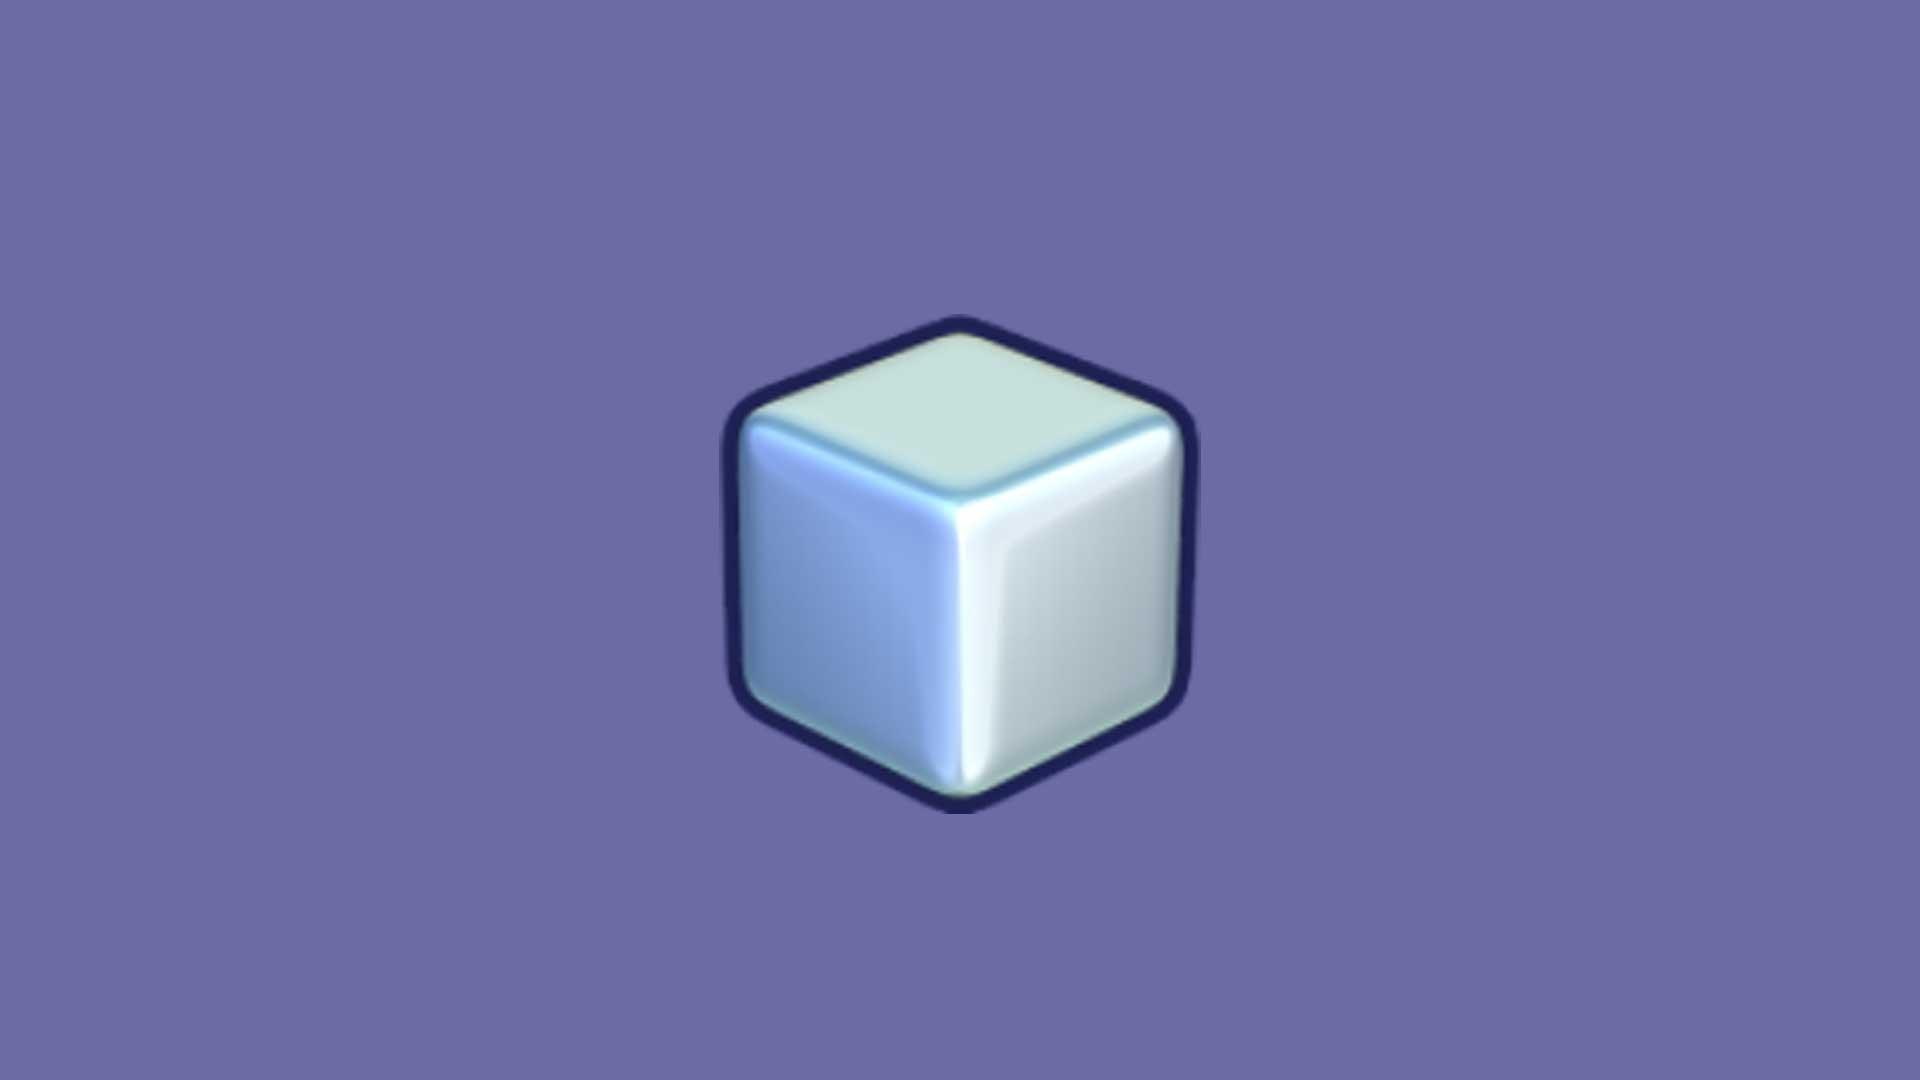
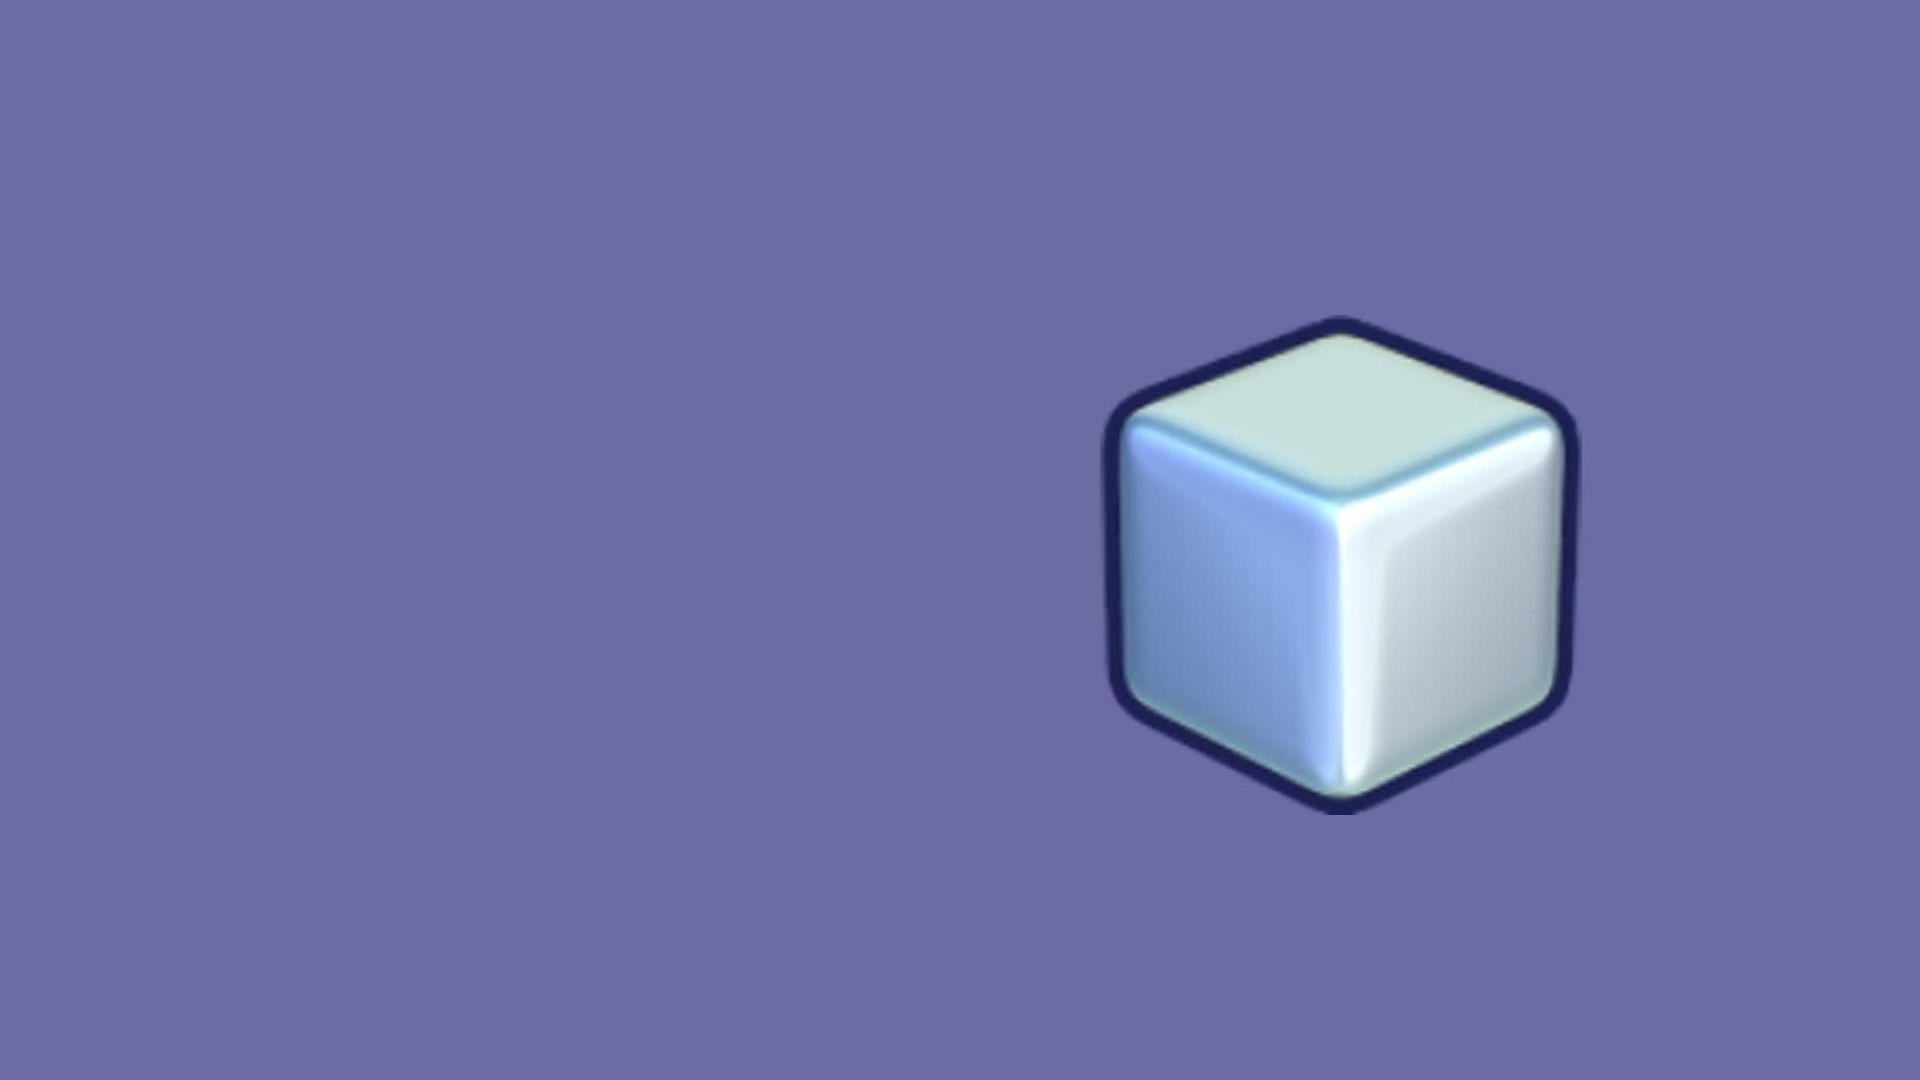
commit netbeans
adding netbeans page to project

Changed region(s): [[0.375, 0.275, 0.8438, 0.7639]]

diff --git a/ide4.css b/ide4.css
@@ -1,25 +1,157 @@
 body{
    background-image: url("img/netbeanswp.jpg");
-   background-size: cover;
    background-attachment: fixed;
+   background-size: cover;
+   background-position: top right;
    margin:0;
+   display: flex;
+   justify-content: space-between;
  }
  main{
-   height: 100%;
-     display: flex;
-     justify-content: space-between;
-     align-items: center;
+   max-width: 650px;
+   display: flex;
+   flex-direction: column;
+   margin-left: 20px;
  }
- .description{
-  margin-left: 80px;
+ menu{
+   margin: 0px;
+   background-color: rgba(130, 179, 205, 0.1);
+   padding: 10px;
+   color: #82B3CD;
+   font-family: Brush Script MT,cursive; 
+ }
+ menu ul{
+  display: flex;
+  flex-direction: column;
+  list-style: none;
+  justify-content: space-between;
+ }
+ menu li{
+  padding: 10px;
+ }
+ menu a:link{
+  color: white;
+  text-decoration: none;
+  font-family: Brush Script MT,cursive; 
+ }
+ menu a:visited {
+  color: white;
+  font-family: Brush Script MT,cursive; 
+}
+menu a:hover {
+ color: #82B3CD;
+ font-family: Brush Script MT,cursive; 
+}
+
+menu a:active {
+  color:  white;
+  font-family: Brush Script MT,cursive; 
+}
+ .screenshots{
+  margin-top: 20px;
+  background-color: rgba(255,255,255,0.3);
+  padding: 10px;
+  max-width: 800px;
+  border: solid;
+  border-color: #82B3CD;
+  border-radius: 10px;
+  color: #82B3CD;
+  -webkit-transform: scale(1);
+  transform: scale(1);
+  -webkit-transition: .5s ease-in-out;
+  transition: .5s ease-in-out;
+ }
+.screenshots p{
+  font-size: 15px;
+ }
+.screenshots h1{
+  font-size: 30px;
+ }
+.screenshots img{
+  border-radius: 10px;
+  width: 200px;
+  height: 100px;
+  -webkit-transform: scale(1);
+  transform: scale(1);
+  -webkit-transition: .3s ease-in-out;
+  transition: .3s ease-in-out;
+}
+.screenshots img:hover{
+  -webkit-transform: scale(1.3);
+  transform: scale(1.3);
+}
+.social{
+  margin-top: 20px;
   background-color: rgba(255,255,255,0.1);
   padding: 10px;
-  max-width: 400px;
-  max-height: 400px;
+  max-width: 800px;
   border: solid;
-  border-color: #129A76;
+  border-color: #82B3CD;
   border-radius: 10px;
-  color: white;
+  color: #82B3CD;
+  -webkit-transform: scale(1);
+  transform: scale(1);
+  -webkit-transition: .5s ease-in-out;
+  transition: .5s ease-in-out;
+ }
+.social p{
+  font-size: 15px;
+ }
+.social h1{
+  font-size: 30px;
+ }
+.social img{
+  border-radius: 10px;
+  width: 75px;
+  height: 75px;
+  -webkit-transition: all 0.5s ease;
+  transition: all 0.5s ease;
+}
+.social img:hover{
+ -webkit-transform: rotate(360deg);
+  transform: rotate(360deg);
+}
+.download{
+  margin-top: 20px;
+  margin-bottom: 20px;
+  background-color: rgba(255,255,255,0.3);
+  padding: 10px;
+  max-width: 800px;
+  border: solid;
+  border-color: #82B3CD;
+  border-radius: 10px;
+  color:  #82B3CD;
+  -webkit-transform: scale(1);
+  transform: scale(1);
+  -webkit-transition: .5s ease-in-out;
+  transition: .5s ease-in-out;
+ }
+.download p{
+  font-size: 15px;
+ }
+.download h1{
+  font-size: 30px;
+ }
+.download img{
+  border-radius: 10px;
+  width: 75px;
+  height: 75px;
+  -webkit-transition: all 0.5s ease;
+  transition: all 0.5s ease;
+}
+.download img:hover{
+   -webkit-transform: rotate(360deg);
+  transform: rotate(360deg);
+}
+ .description{
+  margin-top: 20px;
+  background-color: rgba(255,255,255,0.1);
+  padding: 10px;
+  max-width: 800px;
+  border: solid;
+  border-color: #82B3CD;
+  border-radius: 10px;
+  color: #82B3CD;
   -webkit-transform: scale(1);
   transform: scale(1);
   -webkit-transition: .5s ease-in-out;
@@ -27,40 +159,9 @@ body{
  }
   .description p{
   font-size: 15px;
+  color: white;
  }
   .description h1{
   font-size: 30px;
  }
- .ide{
-  margin-right: 120px;
-    background-color: rgba(255,255,255,0.1);
-  padding: 10px;
-  max-width: 400px;
-  max-height: 400px;
-  border: solid;
-  border-color: #129A76;
-  border-radius: 10px;
-  color: white;
-  -webkit-transform: scale(1);
-  transform: scale(1);
-  -webkit-transition: .5s ease-in-out;
-  transition: .5s ease-in-out;
-}
- .ide img{
-   width: 150px;
-   height: 150px;
-   -webkit-transform: scale(1);
-  transform: scale(1);
-  -webkit-transition: .3s ease-in-out;
-  transition: .3s ease-in-out;
- }
- .ide img:hover{
- -webkit-transform: scale(1.3);
-  transform: scale(1.3);
- }
-  .ide p{
-  font-size: 15px;
- }
-  .ide h1{
-  font-size: 30px;
- }
+ 

diff --git a/ide4.html b/ide4.html
@@ -4,19 +4,41 @@
    <link rel="stylesheet" href="ide4.css"> 
 </head>
 <body>
-<main>
-  <section class="description">
-    <h1>What's NetBeans ?</h1>
-    <p>En programmation informatique, un environnement de développement est un ensemble d'outils qui permet d'augmenter la productivité des programmeurs qui développent des logiciels. Il comporte un éditeur de texte destiné à la programmation, des fonctions qui permettent, par pression sur un bouton, de démarrer le compilateur ou l'éditeur de liens ainsi qu'un débogueur en ligne, qui permet d'exécuter ligne par ligne le programme en cours de construction. Certains environnements sont dédiés à un langage de programmation en particulier.
-        <br>
-        <br>
-        Dans un environnement de développement « intégré » (abrégé EDI en français ou IDE en anglais, pour integrated development environment), les outils sont prévus pour être utilisés ensemble (le produit d'un outil peut servir de matière première pour un autre outil). Les outils peuvent être intégrés dès le départ, c'est-à-dire qu'ils sont construits dans le but d'être utilisés ensemble. Il peut aussi s'agir d'un ensemble d'outils développés sans lien entre eux et intégrés a posteriori.</p>
-  </section>
-  <section class="ide">
-    <h1>My Top IDE</h1>
-    <p><a href="ide1.html"><img src="img/vs.png"></a>&nbsp;&nbsp;<a href="ide2.html"><img src="img/sublime.png"></a></p>
-    <p><a href="ide3.html"><img src="img/eclipse.png"></a>&nbsp;&nbsp;<a href="ide4.html"><img src="img/netbeans.png"></a></p>
-  </section>
+  <main>
+    <article class="description">
+    <h1>What's Sublime Text ?</h1>
+    <h2>Slogan : Fits the Pieces Together</h2>
+    <p>NetBeans est un environnement de développement intégré (EDI), placé en open source par Sun en juin 2000 sous licence CDDL (Common Development and Distribution License) et GPLv2. En plus de Java, NetBeans permet la prise en charge native de divers langages tels le C, le C++, le JavaScript, le XML, le Groovy, le PHP et le HTML, ou d'autres (dont Python et Ruby) par l'ajout de greffons. Il offre toutes les facilités d'un IDE moderne (éditeur avec coloration syntaxique, projets multi-langage, refactoring, éditeur graphique d'interfaces et de pages Web).</p>
+
+    <p>Compilé en Java, NetBeans est disponible sous Windows, Linux, Solaris (sur x86 et SPARC), Mac OS X ou sous une version indépendante des systèmes d'exploitation (requérant une machine virtuelle Java). Un environnement Java Development Kit JDK est requis pour les développements en Java.</p>
+
+   <p>NetBeans constitue par ailleurs une plateforme qui permet le développement d'applications spécifiques (bibliothèque Swing (Java)). L'IDE NetBeans s'appuie sur cette plate forme.</p>
+
+   <p>L'IDE Netbeans s'enrichit à l'aide de greffons.</p>
+  </article>
+  <article class="screenshots">
+    <h1>Screen Shots</h1>
+     <a href="img/netbeans1.png" target="_blank"><img src="img/netbeans1.png"></a>&nbsp;&nbsp;<a href="img/netbeans2.png" target="_blank"><img src="img/netbeans2.png"></a>
+     <br>
+     <a href="img/netbeans3.gif" target="_blank"><img src="img/netbeans3.gif"></a>&nbsp;&nbsp;<a href="img/netbeans4.png" target="_blank"><img src="img/netbeans4.png"></a>
+  </article>
+  <article class="social">
+   <h1>Social Links</h1>
+   <p><a href="https://www.facebook.com/NetBeans" target="_blank"><img src="img/facebook.png"></a>&nbsp;&nbsp;<a href="https://twitter.com/netbeans" target="_blank"><img src="img/twitter.png"></a>&nbsp;&nbsp;<a href="https://www.youtube.com/user/netbeansvideos" target="_blank"><img src="img/youtube.png"></a></p>
+  </article>
+  <article class="download">
+   <h1>Download Links</h1>
+   <p><a href="https://netbeans.apache.org/download/index.html" target="_blank"><img src="img/netbeans.png"></a></p>
+  </article>
 </main>
+ <menu>
+    <ul>
+      <li><a href="ide.html"  title="Accueil">Accueil</a></li>
+      <li><a href="ide1.html" title="Visual Studio">Visual Studio</a></li>
+      <li><a href="ide2.html" title="Sublime Text">Sublime Text</a></li>
+      <li><a href="ide3.html" title="Eclipse">Eclipse</a></li>
+      <li><a href="ide4.html" title="NetBeans">NetBeans</a></li>
+    </ul>
+  </menu>
 </body>
 </html>
